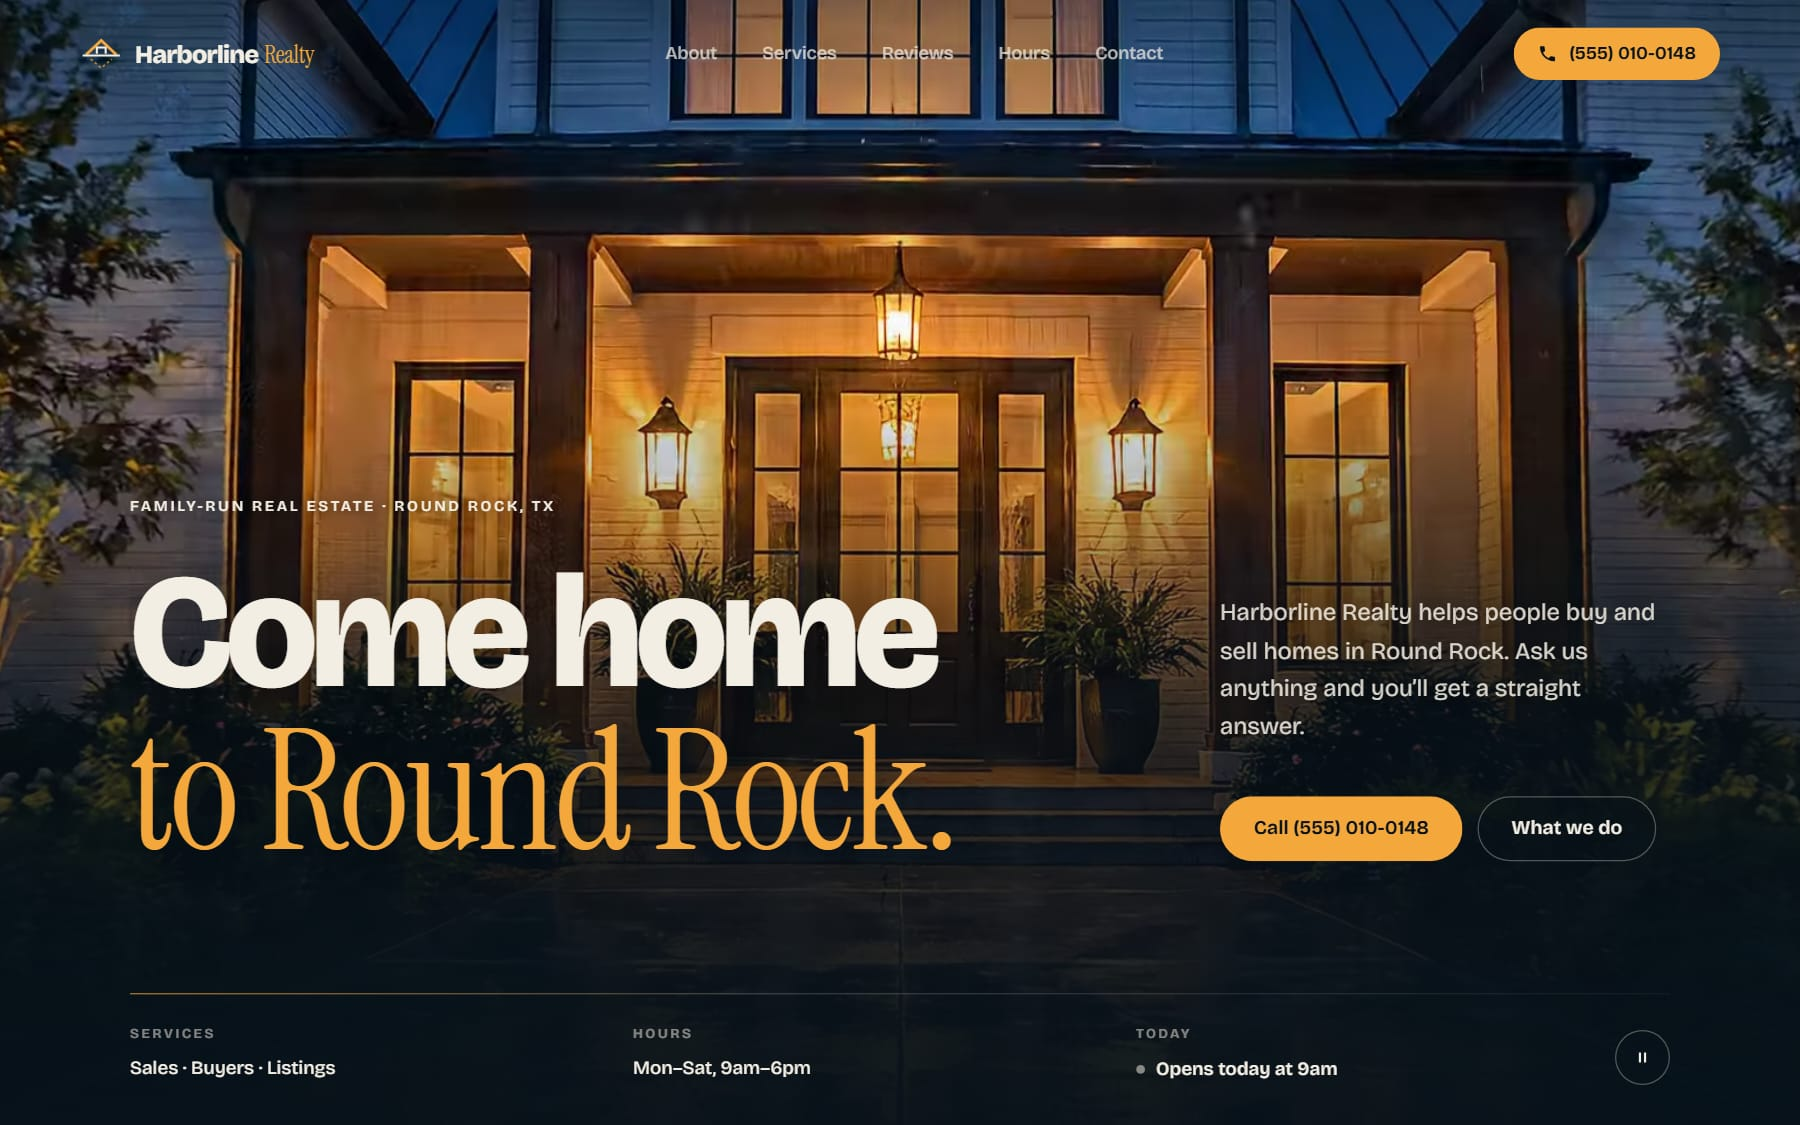
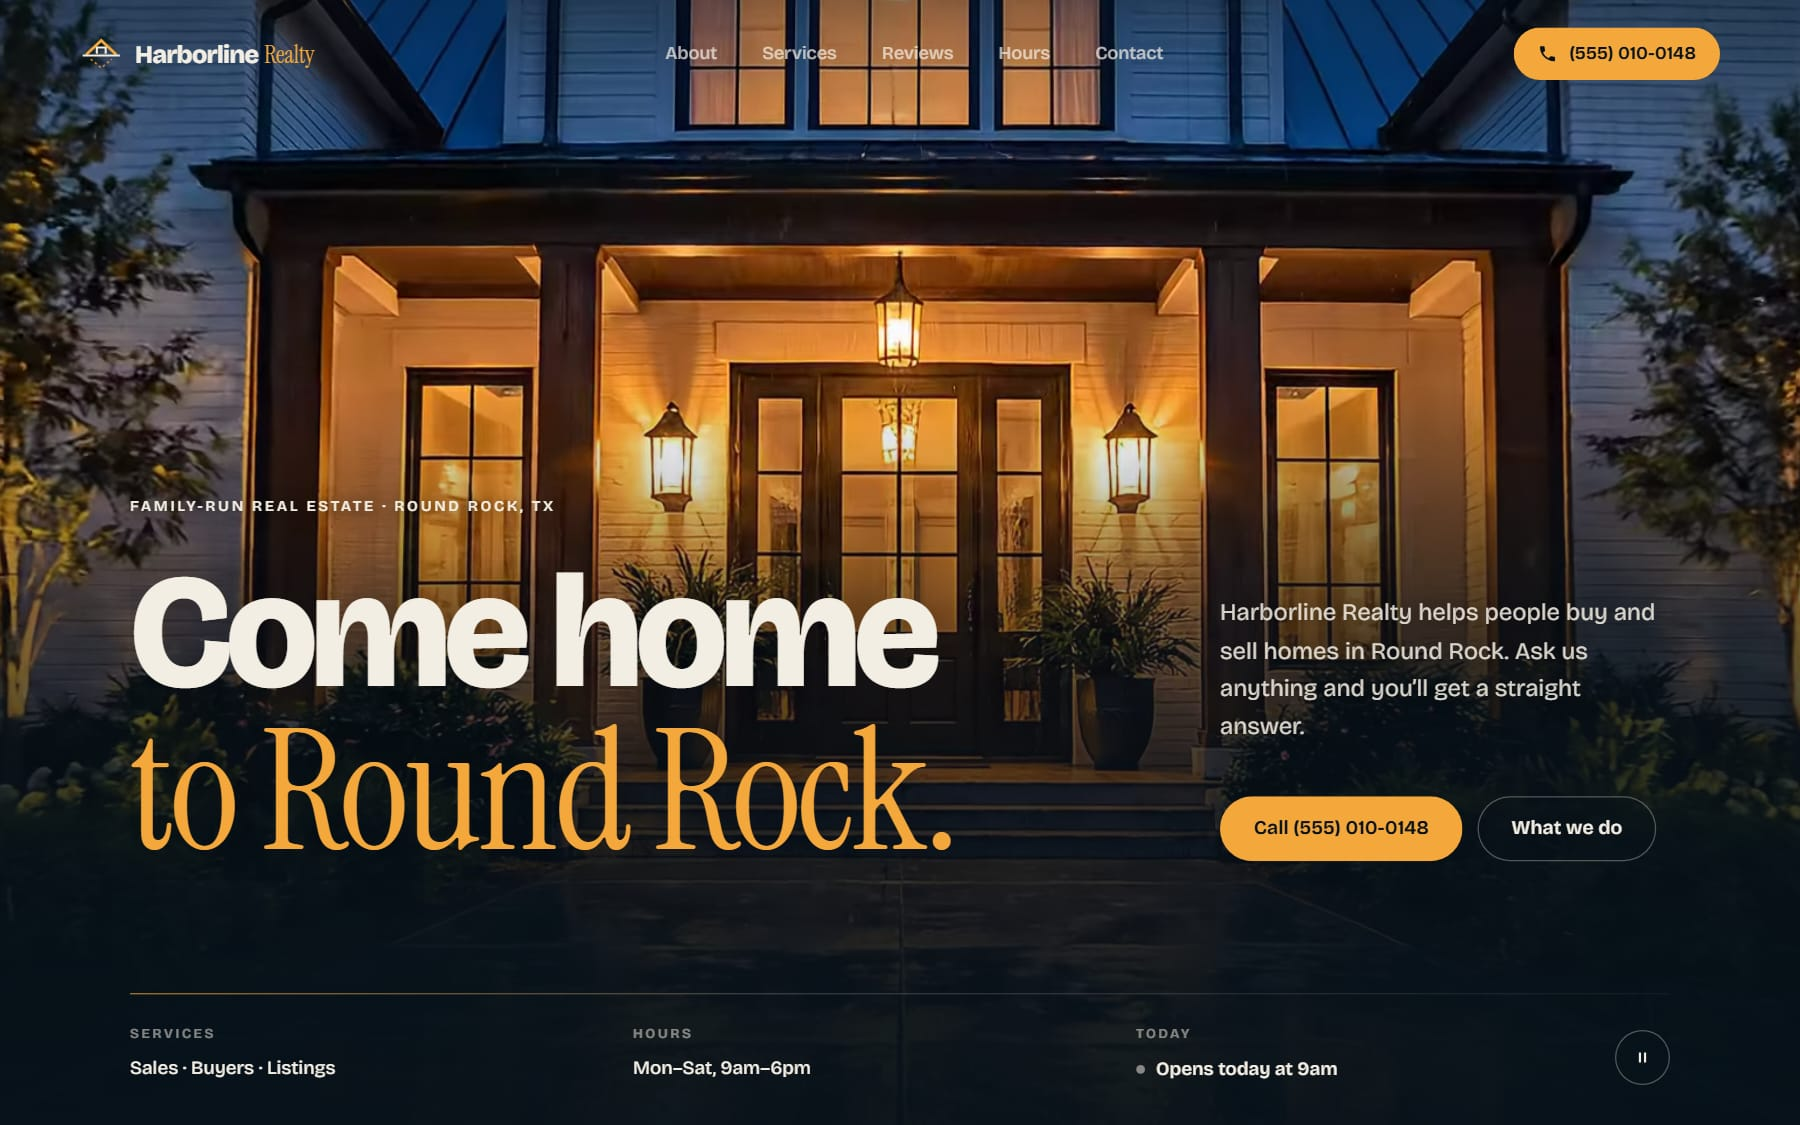
Refresh demo previews and unify live-site button label
- Recapture all six Work previews from the production demo URLs
  (headless Edge, 1440x900 @1.25x and 390x844 @2x, ~6s settle, sharp
  q80 mozjpeg). Dental now shows its updated hero; the plumbing shot
  is confirmed free of the orange bar.
- Card button reads "View live site" on all three cards; the link's
  accessible name now contains the visible label.

diff --git a/src/components/Work.tsx b/src/components/Work.tsx
@@ -37,7 +37,7 @@ export function Work() {
                 target="_blank"
                 rel="noopener"
                 className="group grid items-center gap-10 lg:grid-cols-12 lg:gap-12"
-                aria-label={`${p.name}, open the live site in a new tab`}
+                aria-label={`${p.name}: View live site (opens in a new tab)`}
               >
                 {/* Desktop view with the phone view overlapping its corner */}
                 <div className={`relative lg:col-span-8 ${flip ? "lg:order-2" : ""}`}>
@@ -71,7 +71,7 @@ export function Work() {
                   <p className="mt-6 max-w-md leading-relaxed text-ink-2">{p.summary}</p>
 
                   <div className="mt-9 flex items-end justify-between gap-6 border-t hairline pt-5">
-                    <span className="link-draw pb-0.5 text-[0.95rem] font-medium">Open the live site</span>
+                    <span className="link-draw pb-0.5 text-[0.95rem] font-medium">View live site</span>
                     {p.lighthouse && (
                       <span className="text-right text-[0.75rem] leading-tight text-ink-3">
                         <span className="display block text-2xl text-ink">{p.lighthouse}</span>
